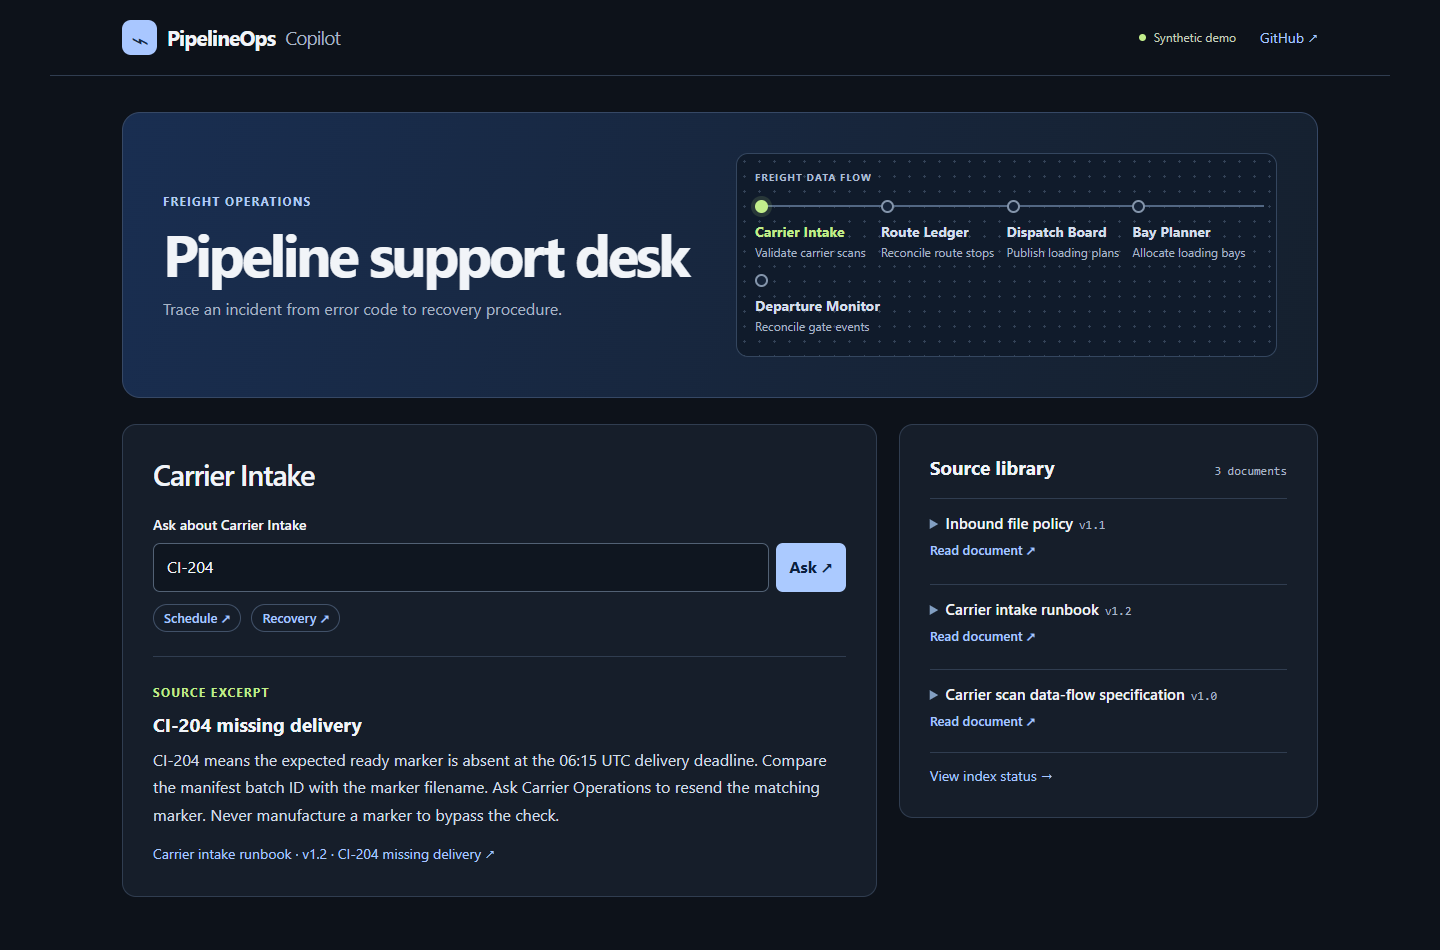
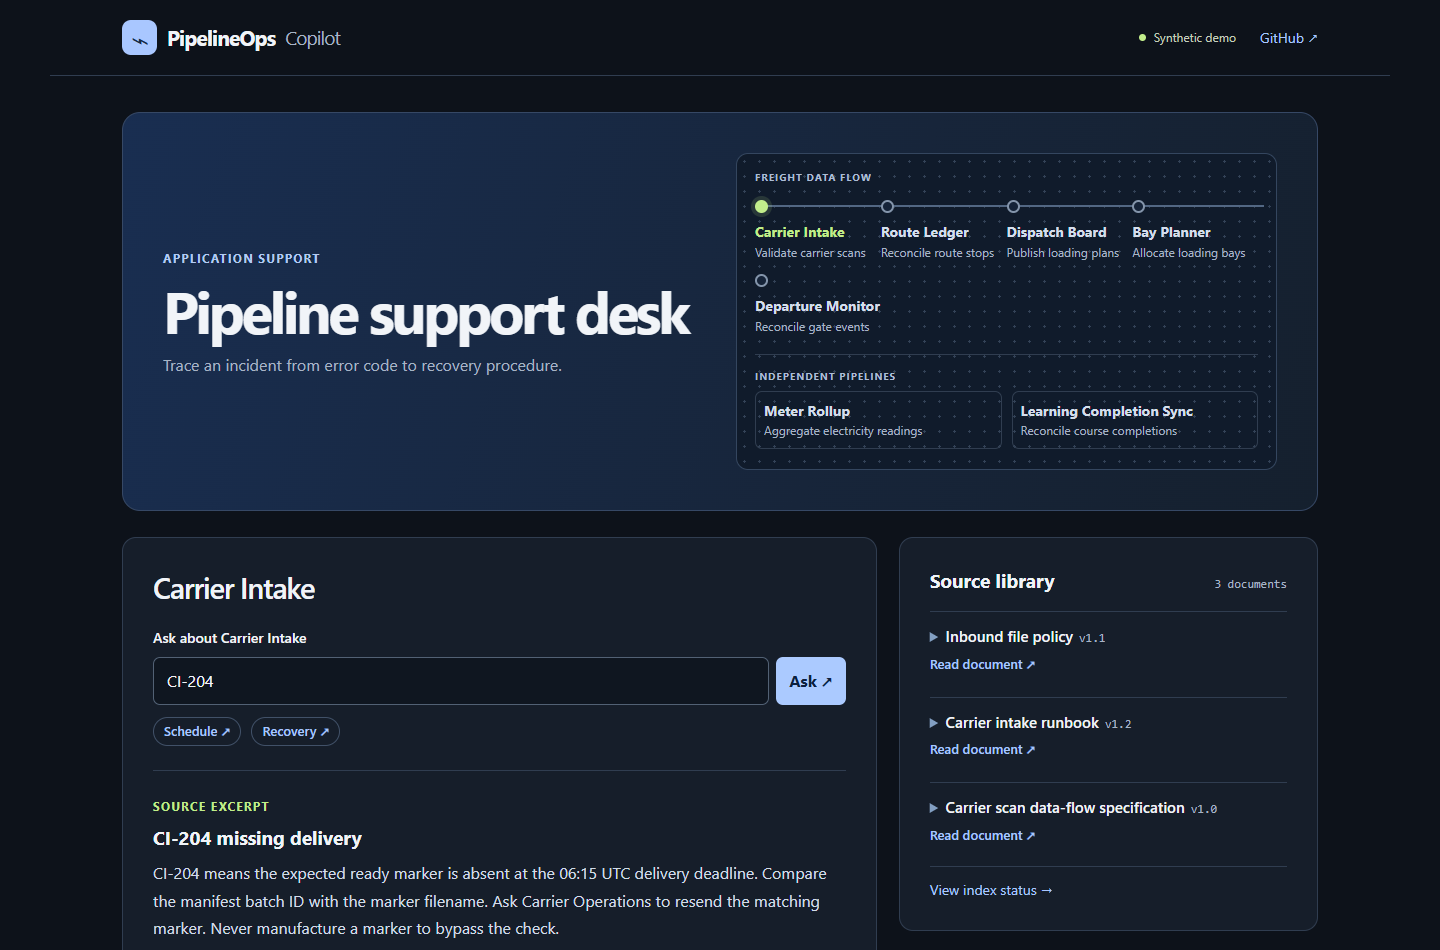
Add independent metering and learning pipelines alongside freight

diff --git a/worker.js b/worker.js
@@ -1,4 +1,4 @@
-const apps = new Map([['intake','Carrier Intake'],['ledger','Route Ledger'],['dispatch','Dispatch Board'],['bay','Bay Planner'],['departure','Departure Monitor']]);
+const apps = new Map([['intake','Carrier Intake'],['ledger','Route Ledger'],['dispatch','Dispatch Board'],['bay','Bay Planner'],['departure','Departure Monitor'],['meter','Meter Rollup'],['learning','Learning Completion Sync']]);
 // Only fold numeric suffixes for namespaces actually used by the runbooks.
 // This keeps ordinary phrases such as "at 15" and dotted job names intact.
 const namespaces = new Set(documents.flatMap(doc => doc.sections.flatMap(section =>
@@ -146,16 +146,23 @@ const pipelineRoles = {
   ledger: 'Reconcile route stops',
   dispatch: 'Publish loading plans',
   bay: 'Allocate loading bays',
-  departure: 'Reconcile gate events'
+  departure: 'Reconcile gate events',
+  meter: 'Aggregate electricity readings',
+  learning: 'Reconcile course completions'
 };
 
 function pipelineMap(active, grants) {
+  const group = (label, ids, standalone = false) => {
+    const visible = ids.filter(id => grants.has(id));
+    if (!visible.length) return '';
+    return `<div class="pipeline-group"><div class="flow-label">${label}</div>
+    <div class="stations${standalone ? ' standalone' : ''}">${visible.map(id => `<div class="station">
+      <a aria-current="${id === active ? 'page' : 'false'}" href="/?app=${id}">${apps.get(id)}</a>
+      <small>${pipelineRoles[id]}</small></div>`).join('')}</div></div>`;
+  };
   return `<nav class="flow" aria-label="Select a pipeline">
-    <div class="flow-label">Freight data flow</div>
-    <div class="stations">${[...apps].filter(([id]) => grants.has(id)).map(([id, name]) => `<div class="station">
-      <a aria-current="${id === active ? 'page' : 'false'}" href="/?app=${id}">${name}</a>
-      <small>${pipelineRoles[id]}</small></div>`).join('')}</div>
-  </nav>`;
+    ${group('Freight data flow', ['intake','ledger','dispatch','bay','departure'])}
+    ${group('Independent pipelines', ['meter','learning'], true)}</nav>`;
 }
 
 function sourceLibrary(app, scoped, retired) {
@@ -211,7 +218,7 @@ function supportDesk(app, scoped, q, retired, grants) {
   const askLink = question => '/?app=' + app + '&amp;q=' + encodeURIComponent(question) + '#answer';
   const start = incident && !q ? `<div class="incident"><div><small>Sample incident</small>
     <h2><code>${incident[1]}</code> ${esc(incident[2])}</h2></div><a href="${askLink('What does ' + incident[1] + ' mean?')}">Investigate <span aria-hidden="true">→</span></a></div>` : '';
-  return `<div class="overview"><div><small class="eyebrow">Freight operations</small><h1>Pipeline support desk</h1>
+  return `<div class="overview"><div><small class="eyebrow">Application support</small><h1>Pipeline support desk</h1>
     <p>Trace an incident from error code to recovery procedure.</p></div>${pipelineMap(app, grants)}</div>
     <div class="layout"><div class="workspace"><h2 class="pipeline-name">${apps.get(app)}</h2>${start}
     <form action="/#answer" method="get"><input type="hidden" name="app" value="${app}"><label for="q">Ask about ${apps.get(app)}</label>
@@ -227,7 +234,8 @@ function page(main, status = 200) {
 const pipelineGuides = ['handbook','sop','dou','flow','runbook'];
 export const publicGrants = new Map([
   ['intake',['runbook','retention','validation']], ['ledger',['runbook']],
-  ['dispatch',['handbook','runbook','handoff']], ['bay',pipelineGuides], ['departure',pipelineGuides]
+  ['dispatch',['handbook','runbook','handoff']], ['bay',pipelineGuides], ['departure',pipelineGuides],
+  ['meter',pipelineGuides], ['learning',pipelineGuides]
 ]);
 const gateGrants = new Map([['bay',['handbook','dou']], ['departure',[...pipelineGuides,'operator-notes']]]);
 

diff --git a/style.css b/style.css
@@ -28,6 +28,11 @@ p, .station small { color: var(--muted) }
 .station [aria-current=page] { color: var(--lime) }
 .station [aria-current=page]:before { background: var(--lime); border-color: var(--lime); box-shadow: 0 0 0 4px #c1ed8b22 }
 .station small { font-size: 12px; display: block }
+.pipeline-group + .pipeline-group { margin-top: 18px; padding-top: 14px; border-top: 1px solid var(--line) }
+.standalone { grid-template-columns: repeat(2,minmax(0,1fr)); gap: 10px; margin-top: 8px }
+.standalone .station::before,.standalone .station a::before { display: none }
+.standalone .station { border: 1px solid var(--line); border-radius: 7px; padding: 8px }
+.standalone .station a { padding-top: 0 }
 .layout { margin-top: 26px; display: grid; grid-template-columns: minmax(0,1.8fr) minmax(260px,1fr); gap: 22px; align-items: start }
 .workspace, aside, article { background: #161e2a; border: 1px solid var(--line); border-radius: 14px; padding: clamp(19px,2.1vw,30px) }
 h2 { font-size: 19px; line-height: 1.35 }

diff --git a/README.md b/README.md
@@ -2,7 +2,7 @@
 
 **[Open the live support desk](https://pipelineops-freight-copilot.aamansharmamu114.chatgpt.site/)**
 
-Aman Sharma built this independent portfolio demo around a support engineer's everyday question: when a pipeline fails, which recovery procedure applies? The desk searches the selected freight pipeline's documentation and cites the exact section and version. All operational data is synthetic.
+Aman Sharma built this independent portfolio demo around a support engineer's everyday question: when a pipeline fails, which recovery procedure applies? The desk searches the selected application's documentation and cites the exact section and version. All operational data is synthetic.
 
 ![Carrier Intake showing the CI-204 recovery procedure and its versioned runbook citation](assets/support-desk.png)
 
@@ -22,13 +22,26 @@ flowchart LR
 
 Bay Planner allocates loading slots and checks for conflicting occupancy. Departure Monitor reconciles gate scans against the released bay plan. Each has a handbook, operating procedure, support agreement (DOU), architecture and data-flow specification, and troubleshooting runbook. [Investigate a bay collision](https://pipelineops-freight-copilot.aamansharmamu114.chatgpt.site/?app=bay&q=BP-307) or [trace an unmatched gate departure](https://pipelineops-freight-copilot.aamansharmamu114.chatgpt.site/?app=departure&q=GM-307).
 
+### Independent pipelines
+
+**Meter Rollup** reads quarter-hour electricity readings from a synthetic meter-gateway export and produces one watt-hour total per meter and UTC hour. **Learning Completion Sync** reads events from a synthetic learning-system export and reconciles the current course status per learner. Each job has its own source, output, operating schedule, support owner, incident codes, and five support guides. Both run directly from their own inputs.
+
+From the project root, run either sample with Node.js:
+
+```sh
+node batches/run.mjs meter
+node batches/run.mjs learning
+```
+
+Pass an optional JSON file as the final argument to use another export. Each job writes results to standard output after validating the full batch. The schedules described in the handbooks are reference operating schedules; the public desk provides cited support guidance. [Investigate a missing meter interval](https://pipelineops-freight-copilot.aamansharmamu114.chatgpt.site/?app=meter&q=MR-104) or [investigate a conflicting course revision](https://pipelineops-freight-copilot.aamansharmamu114.chatgpt.site/?app=learning&q=LC-409).
+
 ### Application and document permissions
 
 The backend checks an explicit application/document allowlist before ranking sections or resolving citations. The selector, suggested incidents, source library, index status, and withdrawal notices use the caller's grants. New document IDs require an explicit grant.
 
 | Caller | Applications and documents available |
 | --- | --- |
-| Anonymous visitor | Published demo documents across all five applications |
+| Anonymous visitor | Published demo documents across all seven applications |
 | Gate operator demo account | Bay Planner handbook and DOU; all Departure Monitor guides, including the synthetic shift notes |
 
 To exercise the operator account locally, supply a strong `GATE_OPERATOR_PASSWORD` through the process environment before running `npm start`. Open `/operator` and sign in with HTTP Basic username `gate`. Hosted activation requires the equivalent Worker secret and HTTPS. With no password configured the operator route returns 401. The public demo uses the anonymous scope. The optional account demonstrates server-side authorization with fictional data; the repository itself is public.
@@ -39,13 +52,13 @@ For a two-document investigation, select Dispatch Board and choose **Late releas
 2. Follow the citation beneath the excerpt. The source viewer highlights the matching section of runbook v1.2.
 3. Try [the same error code under Route Ledger](https://pipelineops-freight-copilot.aamansharmamu114.chatgpt.site/?app=ledger&q=CI-204). The backend searches only that pipeline and reports insufficient evidence.
 
-On the current 139 labeled questions, the deployed handler produced 131 expected outcomes. It declined eight supported questions and returned zero wrong citations. Run `node eval.mjs` to verify the versioned excerpt and source section for each supported answer.
+On the current 153 labeled questions, the deployed handler produced 145 expected outcomes. It declined eight supported questions and returned zero wrong citations. Run `node eval.mjs` to verify the versioned excerpt and source section for each supported answer.
 
 ### Multi-part answer evaluation
 
-Run `npm run eval:compound` to check sixteen multi-part questions across all five pipelines. The suite scores each question as complete only when the part count and order match and every part passes. For supported parts it follows the versioned citation and compares the excerpt to the selected source section. For unsupported parts it requires an explicit abstention with no answer citation.
+Run `npm run eval:compound` to check twenty multi-part questions across all seven applications. The suite scores each question as complete only when the part count and order match and every part passes. For supported parts it follows the versioned citation and compares the excerpt to the selected source section. For unsupported parts it requires an explicit abstention with no answer citation.
 
-The first run passed 11/12 questions. A schedule question followed by “and can I force a restart” had been treated as one request. After recognizing that clause boundary, all 12 questions passed, including all seven mixed-evidence cases. All 14 supported parts cited the expected passage and all 11 unsupported parts abstained. After adding Bay Planner and Departure Monitor, the expanded suite verified 20/20 citations, 13/13 abstentions, and 9/9 mixed-evidence questions.
+The first run passed 11/12 questions. A schedule question followed by “and can I force a restart” had been treated as one request. After recognizing that clause boundary, all 12 questions passed, including all seven mixed-evidence cases. All 14 supported parts cited the expected passage and all 11 unsupported parts abstained. After adding Bay Planner and Departure Monitor, the expanded suite verified 20/20 citations, 13/13 abstentions, and 9/9 mixed-evidence questions. With the independent pipelines, the current suite verifies 26/26 citations and 15/15 abstentions.
 
 ### Local request latency
 
@@ -53,7 +66,7 @@ The first run passed 11/12 questions. A schedule question followed by “and can
 
 ## Run locally
 
-The optional browser check follows one incident in each of the five pipelines from selection to the cited passage and back. With Playwright available to Node and its Chromium browser installed, run `node eval/browser-journey.cjs <origin>` against a running desk. To use installed Microsoft Edge, set `PLAYWRIGHT_CHANNEL=msedge`. It checks desktop mouse, emulated touch at two widths, and keyboard-only navigation.
+The optional browser check follows one incident in each of the seven applications from selection to the cited passage and back. With Playwright available to Node and its Chromium browser installed, run `node eval/browser-journey.cjs <origin>` against a running desk. To use installed Microsoft Edge, set `PLAYWRIGHT_CHANNEL=msedge`. It checks desktop mouse, emulated touch at two widths, and keyboard-only navigation.
 
 Use Node.js 22 or newer. From this directory run `npm start` and open http://127.0.0.1:4173. Use `npm test` for the retrieval and route checks. Neither command requires installing packages or configuring secrets.
 
@@ -69,7 +82,7 @@ flowchart LR
   A --> V[Versioned source viewer]
 ```
 
-The build embeds sixteen publicly searchable synthetic documents with thirty-seven sections in a single Fetch-compatible Worker. The anonymous demo grants access to the published documents in all five pipelines. Search filters the index before ranking. Title matches carry more weight than body matches. Identifier-like terms must match, and tied scores yield an abstention. The citation viewer resolves pipeline, document, version and section. All source changes require a rebuild.
+The build embeds twenty-six publicly searchable synthetic documents with fifty-seven sections in a single Fetch-compatible Worker. The anonymous demo grants access to the published documents in all seven applications. Search filters the index before ranking. Title matches carry more weight than body matches. Identifier-like terms must match, and tied scores yield an abstention. The citation viewer resolves pipeline, document, version and section. All source changes require a rebuild.
 
 An extractive baseline makes grounding inspectable and keeps query costs independent of model tokens. Lexical overlap is an approximation of relevance. Paraphrases, negation, and questions requiring several sections need separate evaluation. There is no language model or embedding service in this milestone.
 

diff --git a/docs/meter/runbook.md b/docs/meter/runbook.md
@@ -1,0 +1,8 @@
+# Meter Rollup troubleshooting runbook
+Version 1.0
+
+## MR-104 incomplete hour
+MR-104 means a meter-hour has fewer than four distinct quarter-hour intervals. Compare the interval starts with minutes 00, 15, 30, and 45. Request the missing reading from Meter Operations and replay the corrected export. Never substitute zero for a missing interval.
+
+## MR-409 conflicting interval
+MR-409 means two readings share a meter and interval start but disagree on watt-hours. Hold the batch and ask Meter Operations to confirm the authoritative value.

diff --git a/docs/learning/runbook.md b/docs/learning/runbook.md
@@ -1,0 +1,8 @@
+# Learning Completion Sync troubleshooting runbook
+Version 1.0
+
+## LC-409 conflicting revision
+LC-409 means two events for the same learner, course, and revision disagree on status. Hold publication and have Learning Systems confirm the authoritative status. Rerun the corrected export. A matching duplicate is safe to replay.
+
+## Invalid enrollment status
+Only assigned, completed, and revoked are accepted. Request a corrected source value for any other status; do not silently map an unknown state to completed.

diff --git a/docs/learning/flow.md b/docs/learning/flow.md
@@ -1,0 +1,8 @@
+# Learning Completion Sync architecture and data flow
+Version 1.0
+
+## Enrollment data flow
+Learning platform export → schema validation → revision reconciliation → enrollment register. The standalone batch reads a JSON array and writes one row per learner-course pair to standard output. Event arrival order does not determine the final state.
+
+## Revocation handling
+Keep revoked as the final status if it belongs to the highest revision. An older completion delivered later cannot restore that enrollment.

diff --git a/docs/meter/flow.md b/docs/meter/flow.md
@@ -1,0 +1,8 @@
+# Meter Rollup architecture and data flow
+Version 1.0
+
+## Meter data flow
+Meter gateway export → interval validation → duplicate check → hourly aggregation → facilities consumption report. Each output row contains meter, UTC hour, and total wh. The standalone batch reads a JSON array and writes its result to standard output.
+
+## Grouping key
+Group on meter ID and UTC hour. Each hour requires start times at minutes 00, 15, 30, and 45. A repeated start time with the same energy value counts once.

diff --git a/docs/learning/sop.md b/docs/learning/sop.md
@@ -1,0 +1,8 @@
+# Learning Completion Sync operating procedure
+Version 1.0
+
+## Safe restart
+Preserve the original export and inspect the rejected learner-course pair. Obtain a corrected export from Learning Systems, then rerun learning_sync. Publish the replacement register only after a successful batch exit.
+
+## Verification
+Sort the register by learner and course. Confirm the latest revision survives an out-of-order delivery. In the sample, L-09 finishes LAB-101 at revision 2 with status completed.

diff --git a/docs/learning/handbook.md b/docs/learning/handbook.md
@@ -1,0 +1,8 @@
+# Learning Completion Sync handbook
+Version 1.0
+
+## Trigger and schedule
+The reference schedule runs learning_sync each day at 02:00 UTC after the learning platform seals its event export. The export contains synthetic learner IDs, course codes, revision numbers, and enrollment statuses.
+
+## Consumers
+Training Administration uses the enrollment register to review assigned, completed, and revoked courses. Each learner-course pair appears once, with its highest observed revision.

diff --git a/docs/meter/sop.md b/docs/meter/sop.md
@@ -1,0 +1,8 @@
+# Meter Rollup operating procedure
+Version 1.0
+
+## Safe restart
+Retain the sealed input export. Correct the rejected intervals with Meter Operations, then rerun meter_rollup on the entire corrected export. Publish the complete result only after the batch exits successfully.
+
+## Verification
+Compare the number of output rows with the distinct meter-hour keys. For the sample meter MTR-07, the four unique readings sum to 750 Wh. The repeated 09:30 interval contributes once.

diff --git a/docs/learning/dou.md b/docs/learning/dou.md
@@ -1,0 +1,8 @@
+# Learning Completion Sync support agreement
+Version 1.0
+
+## Support ownership
+Learning Systems owns the event export and approves revision corrections. Training Administration validates the enrollment register and handles learner-facing inquiries.
+
+## Incident handoff
+Send the learner ID, course code, conflicting revision, and both statuses to Learning Systems. Training Administration keeps the previous register available until the corrected export passes validation.

diff --git a/docs/meter/handbook.md b/docs/meter/handbook.md
@@ -1,0 +1,8 @@
+# Meter Rollup handbook
+Version 1.0
+
+## Trigger and schedule
+The reference schedule runs meter_rollup at ten minutes past each hour against a sealed export of quarter-hour electricity readings. Every timestamp is UTC. One batch can contain multiple meters.
+
+## Consumers
+Facilities Analytics reads the resulting meter-hour totals to compare building energy use. Consumption is measured in watt-hours; readings are interval increments.
